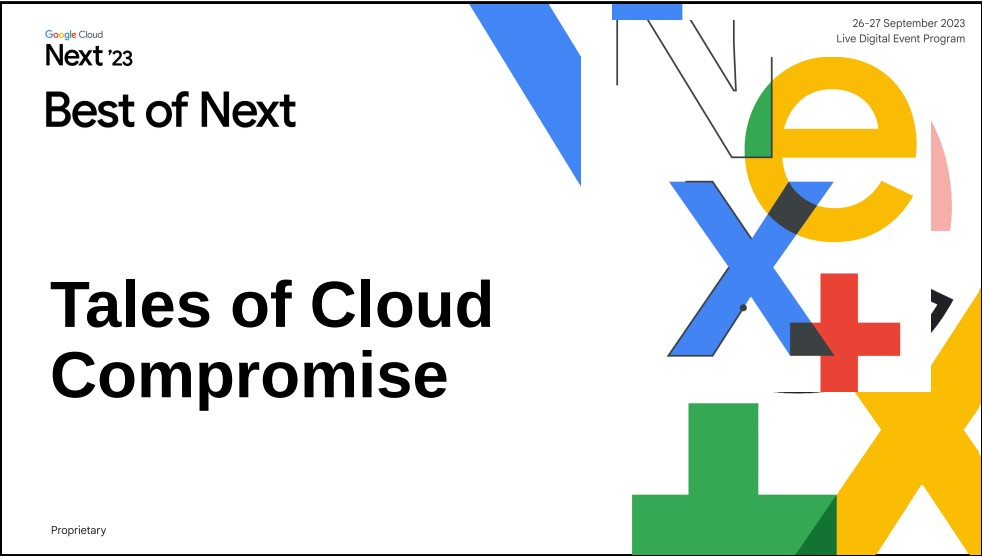
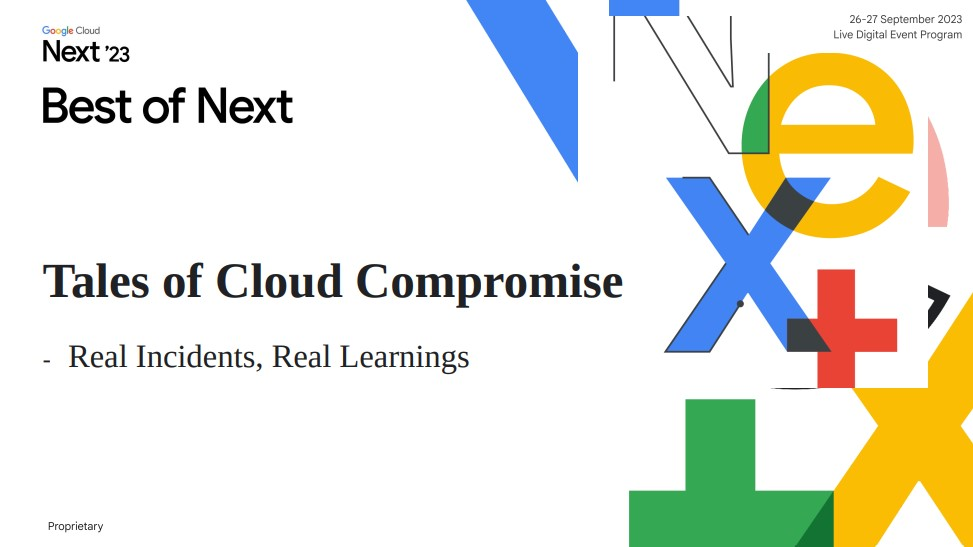
Changes

diff --git a/talks.md b/talks.md
@@ -7,15 +7,15 @@ permalink: /talks/
 
 ## **2023**
 
-- ### **DFRWS APAC Digital Forensics Research Conference**	
+- ### **DFRWS APAC - Digital Forensics Research Conference**	
 **Topic**: Investigating attacks over VMware vSphere Infrastructure    
 <img src="/image/DFRWS2023.jpg" width="300" height="75" />  
 **Links**: [Schedule](https://dfrws.org/apac-2023-program/)    
 Date: October 20, 2023    
 
 - ### **Google NEXT APJ Event**	
-**Topic**: Tales of cloud compromise - Real incidents, real learnings  
-<img src="/image/GoogleNEXT2023.jpg" width="300" height="300" />    
+**Topic**: Tales of cloud compromise - Real Incidents, Real Learnings  
+<img src="/image/GOOGLENEXT2023.jpg" width="300" height="300" />    
 **Links**: [Schedule](https://cloudonair.withgoogle.com/events/apac-best-of-next23?talk=d1-s16-en)  
 Date: September 26, 2023  
 
